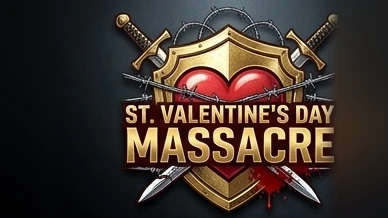
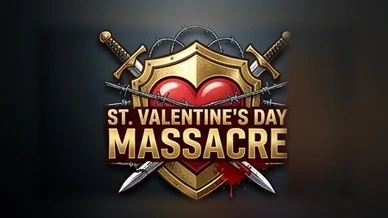
Re-center the St. Valentine's Day Massacre PLE image; cache-bust PLE images by version
Claude-Session: https://claude.ai/code/session_01HNJNgXuxRPHkspEx8mTtfY

diff --git a/docs/index.html b/docs/index.html
@@ -11,7 +11,7 @@
 <meta name="twitter:card" content="summary_large_image">
 <link rel="preconnect" href="https://fonts.googleapis.com">
 <link href="https://fonts.googleapis.com/css2?family=Bebas+Neue&family=Barlow+Condensed:wght@400;500;600;700&family=Barlow:wght@400;500;600&display=swap" rel="stylesheet">
-<link rel="stylesheet" href="css/style.css?v=20261116163122">
+<link rel="stylesheet" href="css/style.css?v=20261116195543">
 </head>
 <body>
 <header class="top"><div class="top-in">
@@ -21,8 +21,8 @@
 <main id="app"><div class="empty">Loading…</div></main>
 <footer>United States Championship Wrestling · Monday Night Mayhem · All characters are fictional</footer>
 <div id="overlay"></div>
-<script src="js/config.js?v=20261116163122"></script>
-<script src="js/version.js?v=20261116163122"></script>
-<script src="js/app.js?v=20261116163122"></script>
+<script src="js/config.js?v=20261116195543"></script>
+<script src="js/version.js?v=20261116195543"></script>
+<script src="js/app.js?v=20261116195543"></script>
 </body>
 </html>

diff --git a/docs/js/app.js b/docs/js/app.js
@@ -23,7 +23,7 @@ const S = {
   wrestlers:{}, apps:{}, events:{}, champs:[], story:{}, loadedW:false, loadedE:false, failed:false, editing:false, draft:null
 };
 
-const pleLogo=i=>'img/ple/ple-'+String(i+1).padStart(2,'0')+'.webp';
+const pleLogo=i=>'img/ple/ple-'+String(i+1).padStart(2,'0')+'.webp?v='+(window.USCW_VERSION||'');
 const pleIdx=e=>(e&&e.ple&&e.date)?Number(e.date.slice(5,7))-1:-1;
 const evImg=(e,cls)=>{ if(!e) return null; const i=pleIdx(e); return i>=0?pleImg(i,cls,e.title):h('img',{class:cls+' mayhem-logo',src:'img/mayhem.webp',alt:e.title||'Monday Night Mayhem',loading:'lazy'}); };
 const pleImg=(i,cls,name)=>(i>=0&&i<12)?h('img',{class:cls,src:pleLogo(i),alt:name||'',loading:'lazy'}):null;

diff --git a/docs/js/version.js b/docs/js/version.js
@@ -1,1 +1,1 @@
-window.USCW_VERSION = '20261116163122';
+window.USCW_VERSION = '20261116195543';
